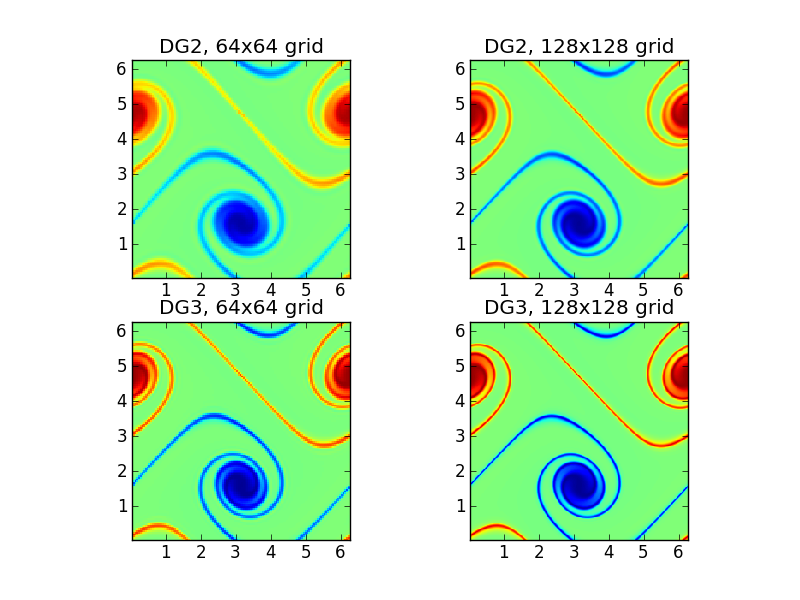
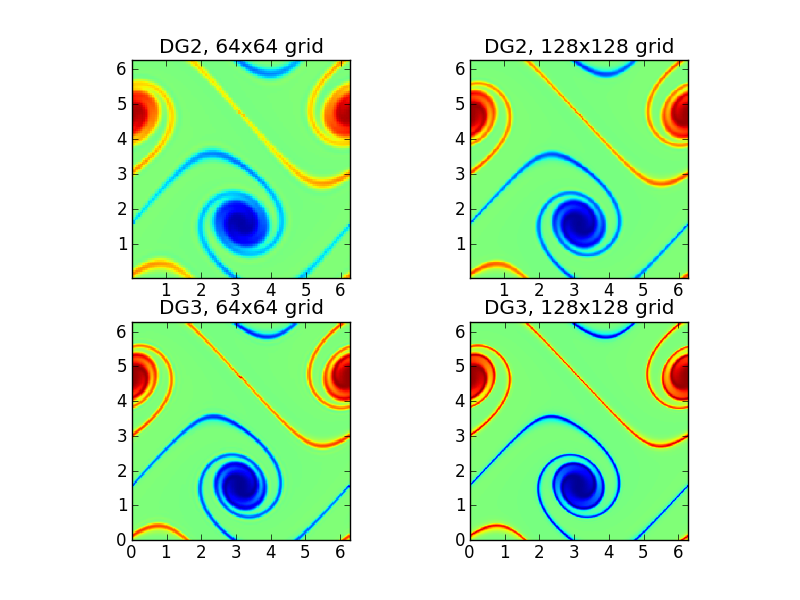
Updated more 3rd order plots.

diff --git a/sims/s138/plot-vortex-waltz.py b/sims/s138/plot-vortex-waltz.py
@@ -119,6 +119,12 @@ def projectOnFinerGrid_f3(Xc, Yc, q):
 
     return Xn, Yn, qn
 
+def evalSum(coeff, fields):
+    res = 0.0*fields[0]
+    for i in range(len(coeff)):
+        res = res + coeff[i]*fields[i]
+    return res
+
 def projectOnFinerGrid_f39(Xc, Yc, q):
    dx = Xc[1]-Xc[0]
    dy = Yc[1]-Yc[0]
@@ -126,20 +132,12 @@ def projectOnFinerGrid_f39(Xc, Yc, q):
    ny = Yc.shape[0]
 
    # mesh coordinates
-   Xn = pylab.zeros((3*nx,), float)
-   Xn[0:nx] = Xc-dx/3.0
-   Xn[nx:2*nx] = Xc
-   Xn[2*nx:] = Xc+dx/3.0
+   Xn = pylab.linspace(0, 10, 3*nx+1) # one more
+   Yn = pylab.linspace(0, 10, 3*ny+1) # one more
+   XXn, YYn = pylab.meshgrid(Xn, Yn)
 
-   Xn.sort()
-
-   Yn = pylab.zeros((3*ny,), float)
-   Yn[0:ny] = Yc-dy/3.0
-   Yn[nx:2*ny] = Yc
-   Yn[2*ny:] = Yc+dy/3.0
-   Yn.sort()
-
-   qn = pylab.zeros((3*Xc.shape[0],3*Yc.shape[0]), float)
+   # data
+   qn = pylab.zeros((3*Xc.shape[0], 3*Yc.shape[0]), float)
 
    v1 = q[:,:,0]
    v2 = q[:,:,1]
@@ -150,34 +148,45 @@ def projectOnFinerGrid_f39(Xc, Yc, q):
    v7 = q[:,:,6]
    v8 = q[:,:,7]
 
+   vList = [v1,v2,v3,v4,v5,v6,v7,v8]
+
    # node 1
-   qn[0:3*nx:3, 0:3*ny:3] = 16.0*v8/27.0+8.0*v7/27.0+8.0*v6/27.0+16.0*v5/27.0+(-2.0)*v4/9.0+(-5.0)*v3/27.0+(-2.0)*v2/9.0+(-4.0)*v1/27.0
+   c1 = [.2314814814814815,-.1388888888888889,-.06481481481481481,-.1388888888888889,0.462962962962963,.09259259259259259,.09259259259259259,0.462962962962963]
+   qn[0:3*nx:3, 0:3*ny:3] = evalSum(c1, vList)
 
    # node 2
-   qn[2:3*nx:3, 0:3*ny:3] = 8.0*v8/27.0+8.0*v7/27.0+16.0*v6/27.0+16.0*v5/27.0+(-5.0)*v4/27.0+(-2.0)*v3/9.0+(-4.0)*v2/27.0+(-2.0)*v1/9.0
+   c2 = [-.1388888888888889,-.1388888888888889,-.1388888888888889,-.1388888888888889,.8333333333333334,.2777777777777778,.1666666666666667,.2777777777777778]
+   qn[1:3*nx:3, 0:3*ny:3] = evalSum(c2, vList)
 
    # node 3
-   qn[2:3*nx:3, 2:3*ny:3] = 8.0*v8/27.0+16.0*v7/27.0+16.0*v6/27.0+8.0*v5/27.0+(-2.0)*v4/9.0+(-4.0)*v3/27.0+(-2.0)*v2/9.0+(-5.0)*v1/27.0
+   c3 = [-.1388888888888889,.2314814814814815,-.1388888888888889,-.06481481481481481,0.462962962962963,0.462962962962963,.09259259259259259,.09259259259259259]
+   qn[2:3*nx:3, 0:3*ny:3] = evalSum(c3, vList)
 
    # node 4
-   qn[0:3*nx:3, 2:3*ny:3] = 16.0*v8/27.0+16.0*v7/27.0+8.0*v6/27.0+8.0*v5/27.0+(-4.0)*v4/27.0+(-2.0)*v3/9.0+(-5.0)*v2/27.0+(-2.0)*v1/9.0
+   c4 = [-.1388888888888889,-.1388888888888889,-.1388888888888889,-.1388888888888889,.2777777777777778,.1666666666666667,.2777777777777778,.8333333333333334]
+   qn[0:3*nx:3, 1:3*ny:3] = evalSum(c4, vList)
 
    # node 5
-   qn[1:3*nx:3, 0:3*ny:3] = 4.0*v8/9.0+v7/3.0+4.0*v6/9.0+2.0*v5/3.0+(-2.0)*v4/9.0+(-2.0)*v3/9.0+(-2.0)*v2/9.0+(-2.0)*v1/9.0
+   c5 = [-0.25,-0.25,-0.25,-0.25,0.5,0.5,0.5,0.5]
+   qn[1:3*nx:3, 1:3*ny:3] = evalSum(c5, vList)
 
    # node 6
-   qn[2:3*nx:3, 1:3*ny:3] = v8/3.0+4.0*v7/9.0+2.0*v6/3.0+4.0*v5/9.0+(-2.0)*v4/9.0+(-2.0)*v3/9.0+(-2.0)*v2/9.0+(-2.0)*v1/9.0
+   c6 = [-.1388888888888889,-.1388888888888889,-.1388888888888889,-.1388888888888889,.2777777777777778,.8333333333333334,.2777777777777778,.1666666666666667]
+   qn[2:3*nx:3, 1:3*ny:3] = evalSum(c6, vList)
 
    # node 7
-   qn[1:3*nx:3, 2:3*ny:3] = 4.0*v8/9.0+2.0*v7/3.0+4.0*v6/9.0+v5/3.0+(-2.0)*v4/9.0+(-2.0)*v3/9.0+(-2.0)*v2/9.0+(-2.0)*v1/9.0
+   c7 = [-.1388888888888889,-.06481481481481481,-.1388888888888889,.2314814814814815,.09259259259259259,.09259259259259259,0.462962962962963,0.462962962962963]
+   qn[0:3*nx:3, 2:3*ny:3] = evalSum(c7, vList)
 
    # node 8
-   qn[0:3*nx:3, 1:3*ny:3] = 2.0*v8/3.0+4.0*v7/9.0+v6/3.0+4.0*v5/9.0+(-2.0)*v4/9.0+(-2.0)*v3/9.0+(-2.0)*v2/9.0+(-2.0)*v1/9.0
+   c8 = [-.1388888888888889,-.1388888888888889,-.1388888888888889,-.1388888888888889,.1666666666666667,.2777777777777778,.8333333333333334,.2777777777777778]
+   qn[1:3*nx:3, 2:3*ny:3] = evalSum(c8, vList)
 
    # node 9
-   qn[1:3*nx:3, 1:3*ny:3] = v8/2.0+v7/2.0+v6/2.0+v5/2.0-v4/4.0-v3/4.0-v2/4.0-v1/4.0
-
-   return Xn, Yn, qn
+   c9 = [-.06481481481481481,-.1388888888888889,.2314814814814815,-.1388888888888889,.09259259259259259,0.462962962962963,0.462962962962963,.09259259259259259]
+   qn[2:3*nx:3, 2:3*ny:3] = evalSum(c9, vList)
+   
+   return XXn, YYn, qn
 
 xlo, ylo = 0.0, 0.0
 xup, yup = 10, 10
@@ -199,7 +208,7 @@ for i in range(nFrame):
     fh = tables.openFile("s138-vortex-waltz_chi_%d.h5" % i)
     q = fh.root.StructGridField
 
-    Xn, Yn, qn = projectOnFinerGrid_f3(Xc, Yc, q)
+    Xn, Yn, qn = projectOnFinerGrid_f39(Xc, Yc, q)
 
     fig = pylab.figure(1)
     pylab.pcolormesh(Xn, Yn, pylab.transpose(qn), vmin=0.0, vmax=1.0)

diff --git a/sims/s137/plot-vortex-waltz.py b/sims/s137/plot-vortex-waltz.py
@@ -119,6 +119,12 @@ def projectOnFinerGrid_f3(Xc, Yc, q):
 
     return Xn, Yn, qn
 
+def evalSum(coeff, fields):
+    res = 0.0*fields[0]
+    for i in range(len(coeff)):
+        res = res + coeff[i]*fields[i]
+    return res
+
 def projectOnFinerGrid_f39(Xc, Yc, q):
    dx = Xc[1]-Xc[0]
    dy = Yc[1]-Yc[0]
@@ -126,20 +132,12 @@ def projectOnFinerGrid_f39(Xc, Yc, q):
    ny = Yc.shape[0]
 
    # mesh coordinates
-   Xn = pylab.zeros((3*nx,), float)
-   Xn[0:nx] = Xc-dx/3.0
-   Xn[nx:2*nx] = Xc
-   Xn[2*nx:] = Xc+dx/3.0
+   Xn = pylab.linspace(0, 10, 3*nx+1) # one more
+   Yn = pylab.linspace(0, 10, 3*ny+1) # one more
+   XXn, YYn = pylab.meshgrid(Xn, Yn)
 
-   Xn.sort()
-
-   Yn = pylab.zeros((3*ny,), float)
-   Yn[0:ny] = Yc-dy/3.0
-   Yn[nx:2*ny] = Yc
-   Yn[2*ny:] = Yc+dy/3.0
-   Yn.sort()
-
-   qn = pylab.zeros((3*Xc.shape[0],3*Yc.shape[0]), float)
+   # data
+   qn = pylab.zeros((3*Xc.shape[0], 3*Yc.shape[0]), float)
 
    v1 = q[:,:,0]
    v2 = q[:,:,1]
@@ -150,34 +148,45 @@ def projectOnFinerGrid_f39(Xc, Yc, q):
    v7 = q[:,:,6]
    v8 = q[:,:,7]
 
+   vList = [v1,v2,v3,v4,v5,v6,v7,v8]
+
    # node 1
-   qn[0:3*nx:3, 0:3*ny:3] = 16.0*v8/27.0+8.0*v7/27.0+8.0*v6/27.0+16.0*v5/27.0+(-2.0)*v4/9.0+(-5.0)*v3/27.0+(-2.0)*v2/9.0+(-4.0)*v1/27.0
+   c1 = [.2314814814814815,-.1388888888888889,-.06481481481481481,-.1388888888888889,0.462962962962963,.09259259259259259,.09259259259259259,0.462962962962963]
+   qn[0:3*nx:3, 0:3*ny:3] = evalSum(c1, vList)
 
    # node 2
-   qn[2:3*nx:3, 0:3*ny:3] = 8.0*v8/27.0+8.0*v7/27.0+16.0*v6/27.0+16.0*v5/27.0+(-5.0)*v4/27.0+(-2.0)*v3/9.0+(-4.0)*v2/27.0+(-2.0)*v1/9.0
+   c2 = [-.1388888888888889,-.1388888888888889,-.1388888888888889,-.1388888888888889,.8333333333333334,.2777777777777778,.1666666666666667,.2777777777777778]
+   qn[1:3*nx:3, 0:3*ny:3] = evalSum(c2, vList)
 
    # node 3
-   qn[2:3*nx:3, 2:3*ny:3] = 8.0*v8/27.0+16.0*v7/27.0+16.0*v6/27.0+8.0*v5/27.0+(-2.0)*v4/9.0+(-4.0)*v3/27.0+(-2.0)*v2/9.0+(-5.0)*v1/27.0
+   c3 = [-.1388888888888889,.2314814814814815,-.1388888888888889,-.06481481481481481,0.462962962962963,0.462962962962963,.09259259259259259,.09259259259259259]
+   qn[2:3*nx:3, 0:3*ny:3] = evalSum(c3, vList)
 
    # node 4
-   qn[0:3*nx:3, 2:3*ny:3] = 16.0*v8/27.0+16.0*v7/27.0+8.0*v6/27.0+8.0*v5/27.0+(-4.0)*v4/27.0+(-2.0)*v3/9.0+(-5.0)*v2/27.0+(-2.0)*v1/9.0
+   c4 = [-.1388888888888889,-.1388888888888889,-.1388888888888889,-.1388888888888889,.2777777777777778,.1666666666666667,.2777777777777778,.8333333333333334]
+   qn[0:3*nx:3, 1:3*ny:3] = evalSum(c4, vList)
 
    # node 5
-   qn[1:3*nx:3, 0:3*ny:3] = 4.0*v8/9.0+v7/3.0+4.0*v6/9.0+2.0*v5/3.0+(-2.0)*v4/9.0+(-2.0)*v3/9.0+(-2.0)*v2/9.0+(-2.0)*v1/9.0
+   c5 = [-0.25,-0.25,-0.25,-0.25,0.5,0.5,0.5,0.5]
+   qn[1:3*nx:3, 1:3*ny:3] = evalSum(c5, vList)
 
    # node 6
-   qn[2:3*nx:3, 1:3*ny:3] = v8/3.0+4.0*v7/9.0+2.0*v6/3.0+4.0*v5/9.0+(-2.0)*v4/9.0+(-2.0)*v3/9.0+(-2.0)*v2/9.0+(-2.0)*v1/9.0
+   c6 = [-.1388888888888889,-.1388888888888889,-.1388888888888889,-.1388888888888889,.2777777777777778,.8333333333333334,.2777777777777778,.1666666666666667]
+   qn[2:3*nx:3, 1:3*ny:3] = evalSum(c6, vList)
 
    # node 7
-   qn[1:3*nx:3, 2:3*ny:3] = 4.0*v8/9.0+2.0*v7/3.0+4.0*v6/9.0+v5/3.0+(-2.0)*v4/9.0+(-2.0)*v3/9.0+(-2.0)*v2/9.0+(-2.0)*v1/9.0
+   c7 = [-.1388888888888889,-.06481481481481481,-.1388888888888889,.2314814814814815,.09259259259259259,.09259259259259259,0.462962962962963,0.462962962962963]
+   qn[0:3*nx:3, 2:3*ny:3] = evalSum(c7, vList)
 
    # node 8
-   qn[0:3*nx:3, 1:3*ny:3] = 2.0*v8/3.0+4.0*v7/9.0+v6/3.0+4.0*v5/9.0+(-2.0)*v4/9.0+(-2.0)*v3/9.0+(-2.0)*v2/9.0+(-2.0)*v1/9.0
+   c8 = [-.1388888888888889,-.1388888888888889,-.1388888888888889,-.1388888888888889,.1666666666666667,.2777777777777778,.8333333333333334,.2777777777777778]
+   qn[1:3*nx:3, 2:3*ny:3] = evalSum(c8, vList)
 
    # node 9
-   qn[1:3*nx:3, 1:3*ny:3] = v8/2.0+v7/2.0+v6/2.0+v5/2.0-v4/4.0-v3/4.0-v2/4.0-v1/4.0
-
-   return Xn, Yn, qn
+   c9 = [-.06481481481481481,-.1388888888888889,.2314814814814815,-.1388888888888889,.09259259259259259,0.462962962962963,0.462962962962963,.09259259259259259]
+   qn[2:3*nx:3, 2:3*ny:3] = evalSum(c9, vList)
+   
+   return XXn, YYn, qn
 
 xlo, ylo = 0.0, 0.0
 xup, yup = 10, 10

diff --git a/sims/s138/plot-vortex-waltz-cmp.py b/sims/s138/plot-vortex-waltz-cmp.py
@@ -119,6 +119,75 @@ def projectOnFinerGrid_f3(Xc, Yc, q):
 
     return Xn, Yn, qn
 
+def evalSum(coeff, fields):
+    res = 0.0*fields[0]
+    for i in range(len(coeff)):
+        res = res + coeff[i]*fields[i]
+    return res
+
+def projectOnFinerGrid_f39(Xc, Yc, q):
+   dx = Xc[1]-Xc[0]
+   dy = Yc[1]-Yc[0]
+   nx = Xc.shape[0]
+   ny = Yc.shape[0]
+
+   # mesh coordinates
+   Xn = pylab.linspace(0, 10, 3*nx+1) # one more
+   Yn = pylab.linspace(0, 10, 3*ny+1) # one more
+   XXn, YYn = pylab.meshgrid(Xn, Yn)
+
+   # data
+   qn = pylab.zeros((3*Xc.shape[0], 3*Yc.shape[0]), float)
+
+   v1 = q[:,:,0]
+   v2 = q[:,:,1]
+   v3 = q[:,:,2]
+   v4 = q[:,:,3]
+   v5 = q[:,:,4]
+   v6 = q[:,:,5]
+   v7 = q[:,:,6]
+   v8 = q[:,:,7]
+
+   vList = [v1,v2,v3,v4,v5,v6,v7,v8]
+
+   # node 1
+   c1 = [.2314814814814815,-.1388888888888889,-.06481481481481481,-.1388888888888889,0.462962962962963,.09259259259259259,.09259259259259259,0.462962962962963]
+   qn[0:3*nx:3, 0:3*ny:3] = evalSum(c1, vList)
+
+   # node 2
+   c2 = [-.1388888888888889,-.1388888888888889,-.1388888888888889,-.1388888888888889,.8333333333333334,.2777777777777778,.1666666666666667,.2777777777777778]
+   qn[1:3*nx:3, 0:3*ny:3] = evalSum(c2, vList)
+
+   # node 3
+   c3 = [-.1388888888888889,.2314814814814815,-.1388888888888889,-.06481481481481481,0.462962962962963,0.462962962962963,.09259259259259259,.09259259259259259]
+   qn[2:3*nx:3, 0:3*ny:3] = evalSum(c3, vList)
+
+   # node 4
+   c4 = [-.1388888888888889,-.1388888888888889,-.1388888888888889,-.1388888888888889,.2777777777777778,.1666666666666667,.2777777777777778,.8333333333333334]
+   qn[0:3*nx:3, 1:3*ny:3] = evalSum(c4, vList)
+
+   # node 5
+   c5 = [-0.25,-0.25,-0.25,-0.25,0.5,0.5,0.5,0.5]
+   qn[1:3*nx:3, 1:3*ny:3] = evalSum(c5, vList)
+
+   # node 6
+   c6 = [-.1388888888888889,-.1388888888888889,-.1388888888888889,-.1388888888888889,.2777777777777778,.8333333333333334,.2777777777777778,.1666666666666667]
+   qn[2:3*nx:3, 1:3*ny:3] = evalSum(c6, vList)
+
+   # node 7
+   c7 = [-.1388888888888889,-.06481481481481481,-.1388888888888889,.2314814814814815,.09259259259259259,.09259259259259259,0.462962962962963,0.462962962962963]
+   qn[0:3*nx:3, 2:3*ny:3] = evalSum(c7, vList)
+
+   # node 8
+   c8 = [-.1388888888888889,-.1388888888888889,-.1388888888888889,-.1388888888888889,.1666666666666667,.2777777777777778,.8333333333333334,.2777777777777778]
+   qn[1:3*nx:3, 2:3*ny:3] = evalSum(c8, vList)
+
+   # node 9
+   c9 = [-.06481481481481481,-.1388888888888889,.2314814814814815,-.1388888888888889,.09259259259259259,0.462962962962963,0.462962962962963,.09259259259259259]
+   qn[2:3*nx:3, 2:3*ny:3] = evalSum(c9, vList)
+   
+   return XXn, YYn, qn
+
 tEnd = 100.0
 nFrame = 11
 
@@ -138,7 +207,7 @@ Yc = pylab.linspace(ylo+0.5*dy, yup-0.5*dy, ny)
 
 fh = tables.openFile("s138-vortex-waltz_chi_10.h5")
 q = fh.root.StructGridField
-Xn, Yn, qn = projectOnFinerGrid_f3(Xc, Yc, q)
+Xn, Yn, qn = projectOnFinerGrid_f39(Xc, Yc, q)
 
 pylab.subplot(1,2,2)
 pylab.pcolormesh(Xn, Yn, pylab.transpose(qn), vmin=0.0, vmax=1.0)
@@ -154,7 +223,7 @@ Yc = pylab.linspace(ylo+0.5*dy, yup-0.5*dy, ny)
 
 fh = tables.openFile("../s137/s137-vortex-waltz_chi_10.h5")
 q = fh.root.StructGridField
-Xn, Yn, qn = projectOnFinerGrid_f3(Xc, Yc, q)
+Xn, Yn, qn = projectOnFinerGrid_f39(Xc, Yc, q)
 
 pylab.subplot(1,2,1)
 pylab.pcolormesh(Xn, Yn, pylab.transpose(qn), vmin=0.0, vmax=1.0)

diff --git a/sims/s139/plot-vortex-waltz.py b/sims/s139/plot-vortex-waltz.py
@@ -83,48 +83,6 @@ def evalSum(coeff, fields):
         res = res + coeff[i]*fields[i]
     return res
 
-def projectOnFinerGrid_f3(Xc, Yc, q):
-    dx = Xc[1]-Xc[0]
-    dy = Yc[1]-Yc[0]
-    nx = Xc.shape[0]
-    ny = Yc.shape[0]
-
-    # mesh coordinates
-    Xn = pylab.zeros((2*Xc.shape[0],), float)
-    Xn[0:nx] = Xc-0.25*dx
-    Xn[nx:] = Xc+0.25*dx
-    Xn.sort()
-
-    Yn = pylab.zeros((2*Yc.shape[0],), float)
-    Yn[0:nx] = Yc-0.25*dx
-    Yn[nx: ] = Yc+0.25*dx
-    Yn.sort()
-
-    qn = pylab.zeros((2*Xc.shape[0],2*Yc.shape[0]), float)
-
-    c0 = q[:,:,0]
-    c1 = q[:,:,1]
-    c2 = q[:,:,2]
-    c3 = q[:,:,3]
-    c4 = q[:,:,4]
-    c5 = q[:,:,5]
-    c6 = q[:,:,6]
-    c7 = q[:,:,7]
-
-    # node 0
-    qn[0:2*nx:2, 0:2*ny:2] = (9*c7)/16.0+(3*c6)/16.0+(3*c5)/16.0+(9*c4)/16.0-(3*c3)/16.0-c2/8.0-(3*c1)/16.0
-
-    # node 1
-    qn[1:2*nx:2, 0:2*ny:2] = (3*c7)/16.0+(3*c6)/16.0+(9*c5)/16.0+(9*c4)/16.0-c3/8.0-(3*c2)/16.0-(3*c0)/16.0
-
-    # node 2
-    qn[1:2*nx:2, 1:2*ny:2] = (3*c7)/16.0+(9*c6)/16.0+(9*c5)/16.0+(3*c4)/16.0-(3*c3)/16.0-(3*c1)/16.0-c0/8.0
-
-    # node 3
-    qn[0:2*nx:2, 1:2*ny:2] = (9*c7)/16.0+(9*c6)/16.0+(3*c5)/16.0+(3*c4)/16.0-(3*c2)/16.0-c1/8.0-(3*c0)/16.0
-
-    return Xn, Yn, qn
-
 def projectOnFinerGrid_f34(Xc, Yc, q):
     dx = Xc[1]-Xc[0]
     dy = Yc[1]-Yc[0]

diff --git a/je/je14/je14-vlasov-fixed-pot.rst b/je/je14/je14-vlasov-fixed-pot.rst
@@ -1,0 +1,10 @@
+:Author: Ammar Hakim
+:Date: May 24th
+:Completed:  
+:Last Updated:  
+
+JE14: A DG scheme for Vlasov equation with specified potential
+==============================================================
+
+.. contents::
+
